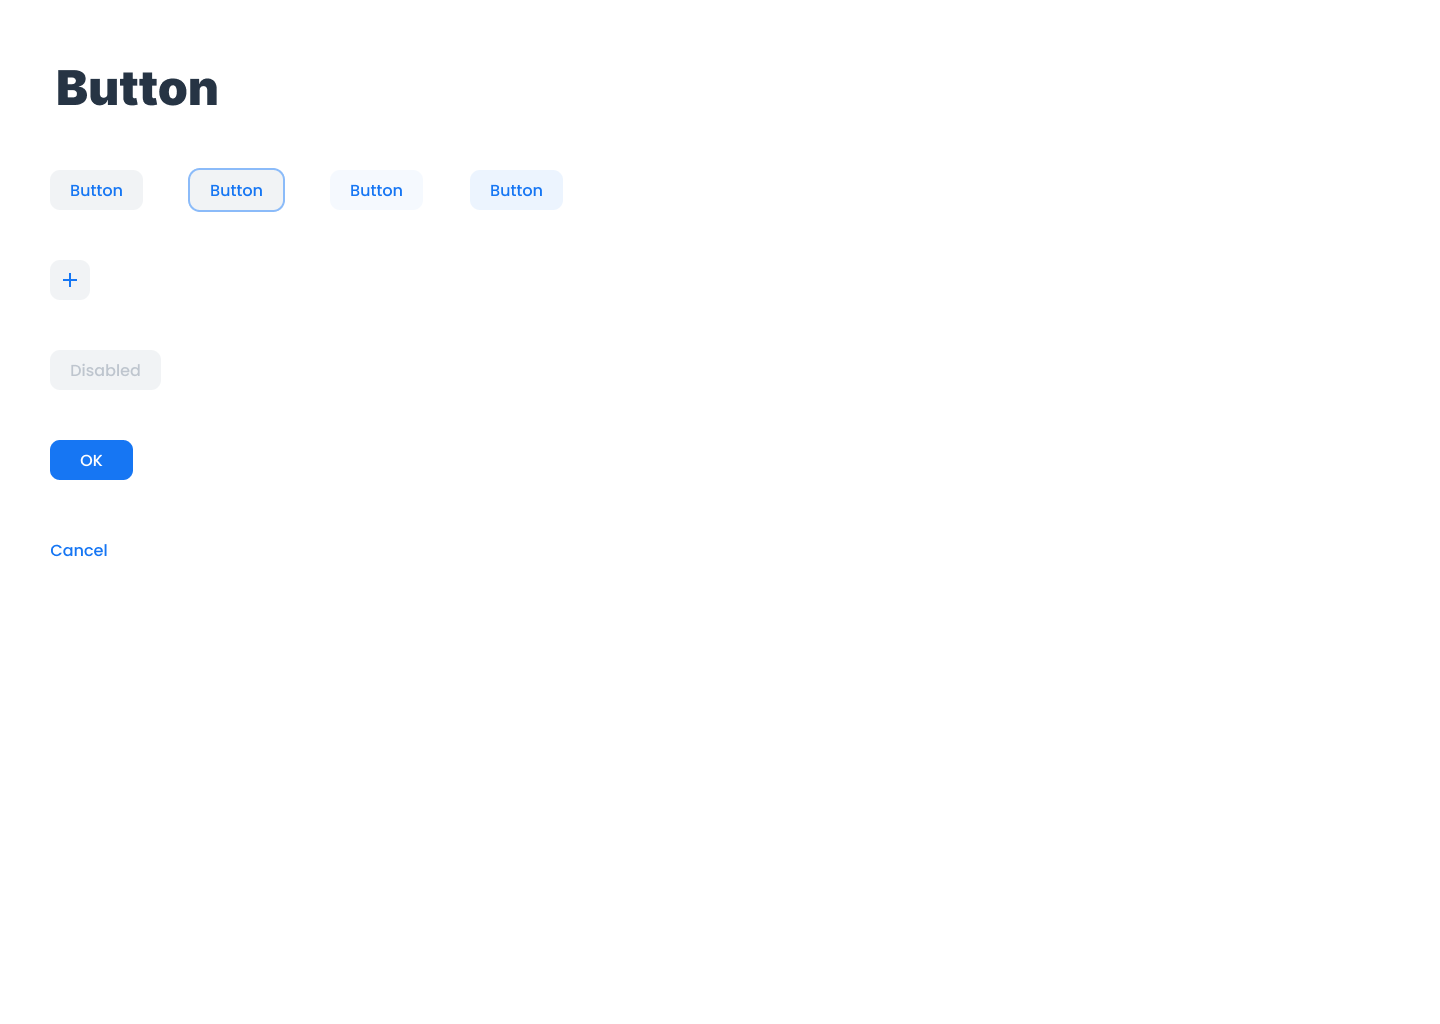
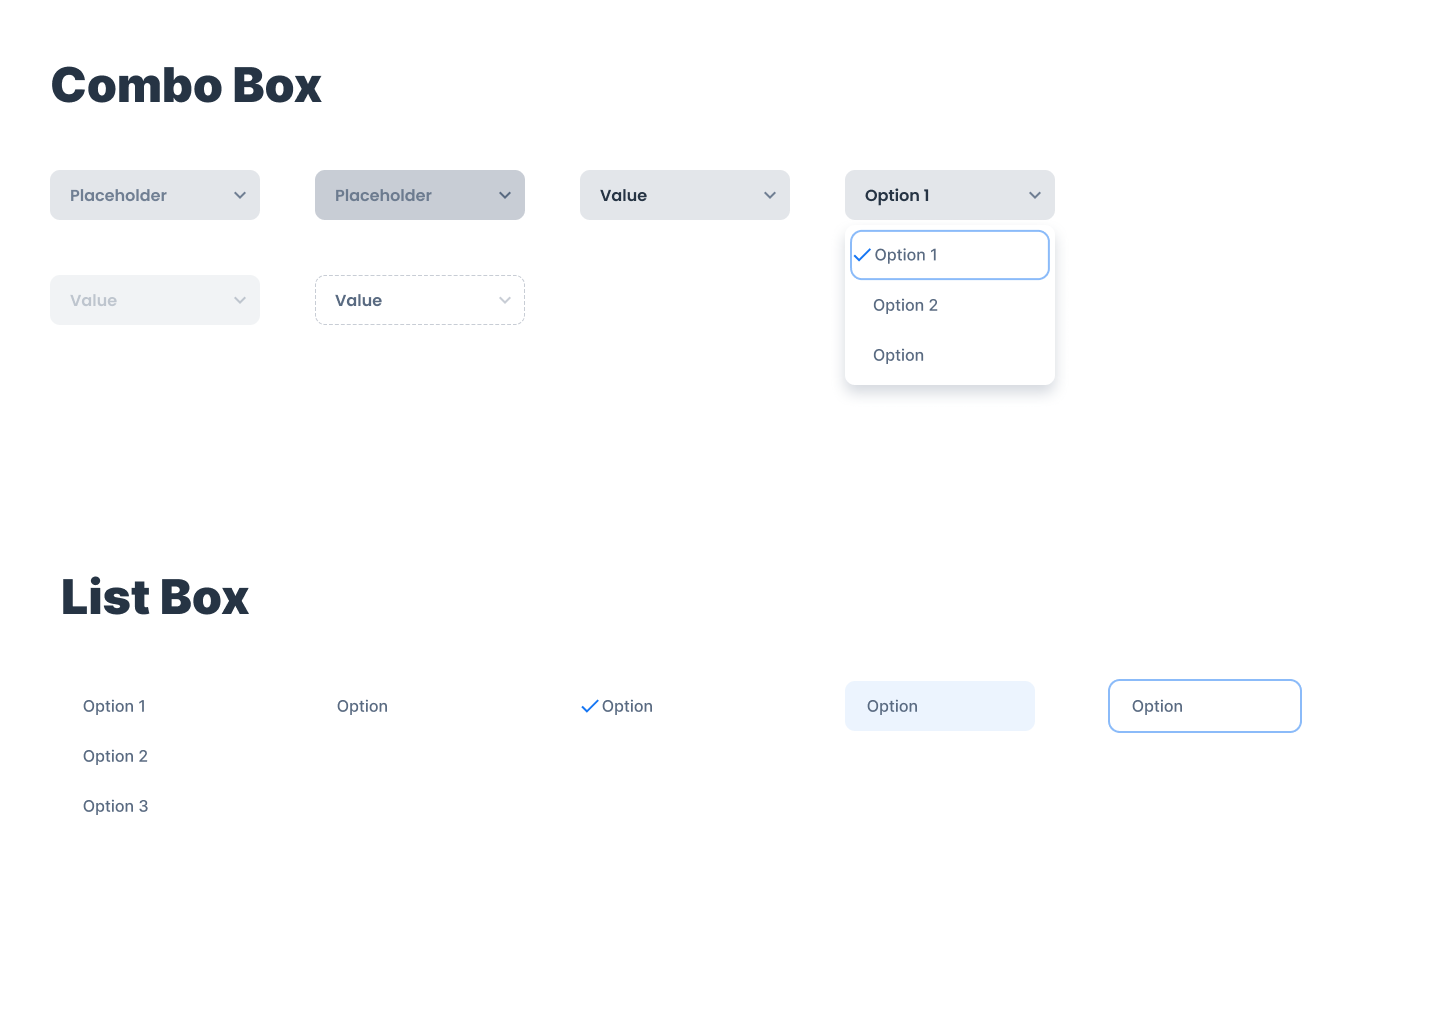
add z-ui project screenshot

diff --git a/client/_posts/2020-02-05-zui.md b/client/_posts/2020-02-05-zui.md
@@ -2,13 +2,15 @@
 uid:    "zui"
 title:  "Z-UI"
 color:  "1676f3"
-tags:   [scss, css3, html5, bem, git, stencil, storybook, typescript]
+tags:   [scss, css3, html5, bem, figma, git, stencil, storybook, typescript]
 images:
         "zui-1.png": "Combobox component"
-        "zui-2.png": "Button component"
+        "zui-2.png": "Combobox design"
+        "zui-3.png": "Button design"
 links:
         "https://github.com/zhitkovkostya/z-ui": "View Github"
-        "https://z-ui.netlify.com": "View StoryBook"
+        "https://z-ui.netlify.com": "View Storybook"
+        "https://www.figma.com/proto/fspMSDQHmUctEGXxvr4Dgm/Z-UI?node-id=1%3A2&viewport=199%2C423%2C0.05426705256104469&scaling=scale-down": "View Figma"
 ---
 
 A collection of reusable, accessible and responsive web components. Inspired by Vaadin design system.
